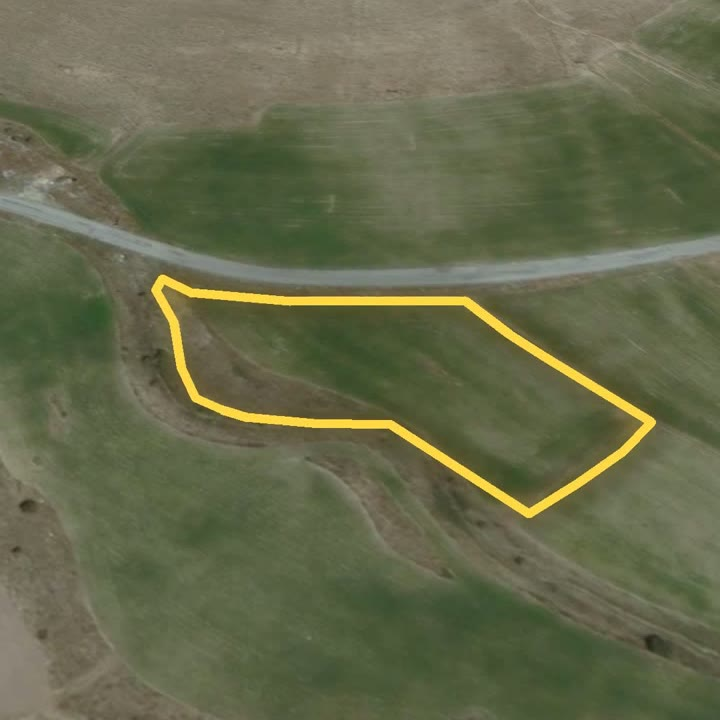
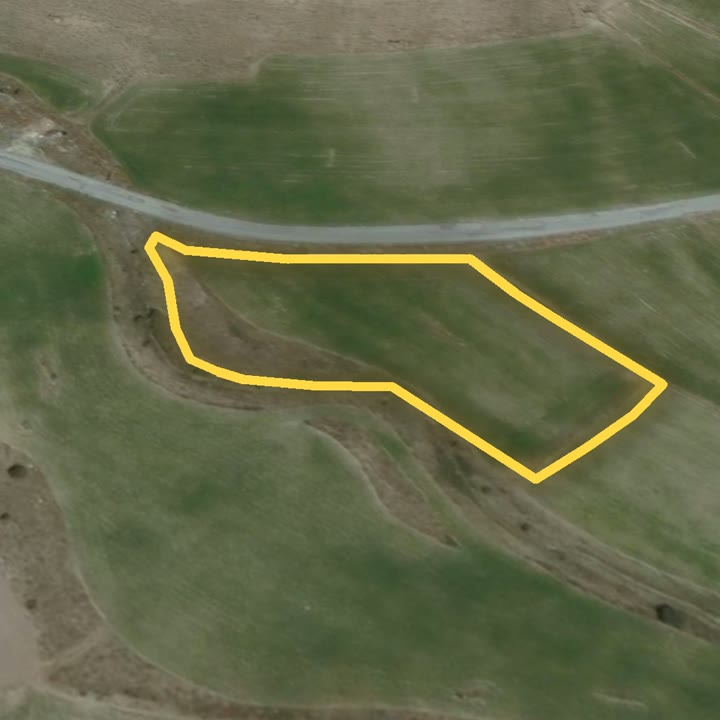
Emlak gorsel: hizali once/sonra gorseli, net hazirlanma sureleri

diff --git a/emlak-gorsel/index.html b/emlak-gorsel/index.html
@@ -548,7 +548,7 @@
       <details class="reveal"><summary>Hangi araziler için video yapılabiliyor?</summary><p>Türkiye'de tapu kaydı olan arsa, tarla ve parseller için. İl, ilçe, mahalle, ada ve parsel bilgisi yeterli; sınırlar resmi kayıttan otomatik çizilir.</p></details>
       <details class="reveal"><summary>Arsaya kurulan yapı gerçek bir proje mi?</summary><p>Hayır, yapay zekanın hazırladığı bir canlandırmadır. Alıcıya arsanın neye dönüşebileceğini göstermek içindir; resmi bir proje ya da imar bilgisi yerine geçmez.</p></details>
       <details class="reveal"><summary>Videoda firmamın bilgileri görünüyor mu?</summary><p>Evet. Firma adınız, telefon numaranız ve logonuz videonun üstünde yer alır. Video nerede paylaşılırsa sizi aratır.</p></details>
-      <details class="reveal"><summary>Video ne kadar sürede hazır oluyor?</summary><p>Siparişten kısa süre sonra Telegram'a gelir. Yapı kurulumlu videolar biraz daha uzun sürer; hazır olunca bot size haber verir.</p></details>
+      <details class="reveal"><summary>Video ne kadar sürede hazır oluyor?</summary><p>Kısa drone videosu genelde 5-10 dakikada, uzun drone videosu 15-20 dakikada, yapı kurulumlu video 20-30 dakikada Telegram'a gelir. Sırada başka video varsa bot sıranızı ve tahmini süreyi söyler; hazır olunca kendisi gönderir, ekranda beklemeniz gerekmez.</p></details>
       <details class="reveal"><summary>Videoyu beğenmezsem ne olur?</summary><p>Her video teslimden önce kalite kontrolünden geçer. Metin, ses ya da yazıda değişiklik isterseniz revize ile güncelleriz.</p></details>
       <details class="reveal"><summary>Nasıl başlarım?</summary><p>WhatsApp'tan bize yazın, hesabınızı açalım. Sonra Telegram botuna giriş yapıp ilk videonuzu hemen sipariş edebilirsiniz.</p></details>
     </div>
